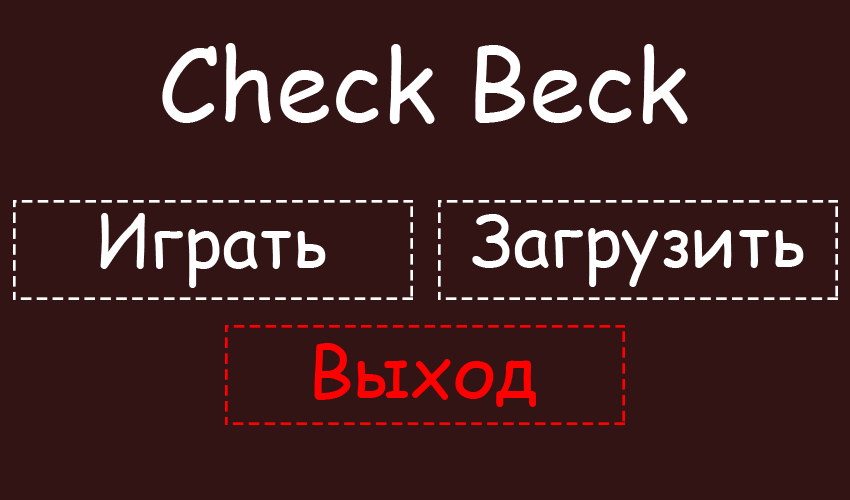
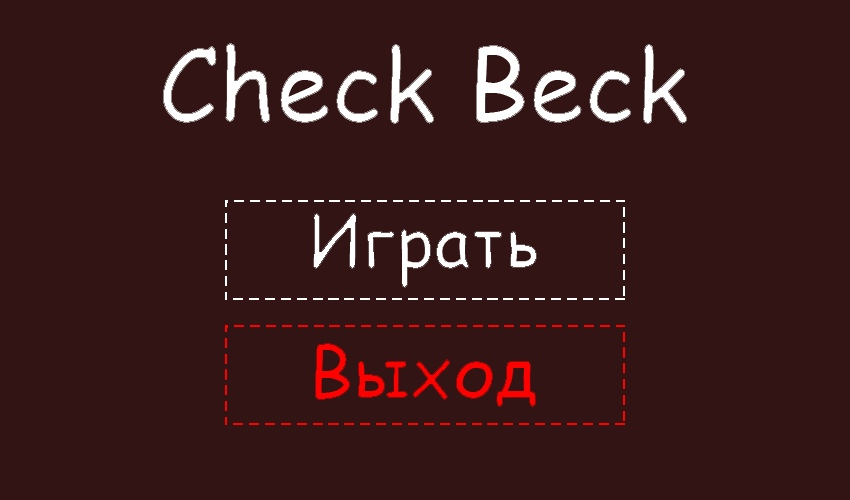
исправлены баги и доделано управление с геймпада

diff --git a/Check_Beck_game.py b/Check_Beck_game.py
@@ -3,9 +3,7 @@ import os
 import random
 import sys
 
-
 pygame.init()
-
 
 gamemap, player, level_x, level_y, chests, gun, knife, monsters, door, minimap = \
     None, None, None, None, None, None, None, None, None, None
@@ -29,6 +27,9 @@ tile_width = tile_height = 50
 HEALTH_BAR_SIZE = 178
 chests_found = 0
 HP = 50
+
+EXIT_BUTTON_COORDS = 425, 375
+START_BUTTON_COORDS = 425, 250
 
 screen = pygame.display.set_mode(size)
 amount_sprites = 47996
@@ -59,7 +60,8 @@ def show_progress(setMax, setVal):
     length_cur = int(length_pb / 100 * precent_cur)
     # Выводим прогресс бар
     sys.stderr.write(
-        '\rLoading: [' + '#' * length_cur + '.' * (length_pb - length_cur) + '] ' + str(precent_cur) + '%')
+        '\rLoading: [' + '#' * length_cur + '.' * (length_pb - length_cur) + '] ' +
+        str(precent_cur) + '%')
 
 
 def load_image(name, subfolder=None, colorkey=None):
@@ -91,7 +93,7 @@ def generate_level(level):
                 Tile("empty", x, y)
                 chests[(y, x)] = Chest((x, y))
                 monsters[(x - 1, y - 1)] = [random_monster(random.choices(LIST_OF_MONSTERS)[0],
-                                                          (x - 1, y - 1), (x, y))]
+                                                           (x - 1, y - 1), (x, y))]
             elif level[y][x] == '@':
                 Tile('empty', x, y)
                 player_coords = x, y
@@ -144,7 +146,7 @@ class Inventory:
         size_of_map = 194
         pygame.draw.rect(screen, pygame.color.Color('white'),
                          (self.x + ((self.width - int(self.width * 0.88)) // 2),
-                                                   height * 0.13, int(self.width * 0.88), height * 0.13), 1)
+                          height * 0.13, int(self.width * 0.88), height * 0.13), 1)
 
         pygame.draw.rect(screen, pygame.color.Color('white') if player.active_weapon == 2
         else pygame.color.Color('yellow'),
@@ -160,25 +162,25 @@ class Inventory:
 
         pygame.draw.rect(screen, pygame.color.Color('white'),
                          (self.x + ((self.width - int(self.width * 0.88)) // 2) - 1,
-                                                   height * 0.31 - 1, size_of_slots + 2, size_of_slots + 2), 1)
+                          height * 0.31 - 1, size_of_slots + 2, size_of_slots + 2), 1)
 
         pygame.draw.rect(screen, pygame.color.Color('white'),
                          (self.x + ((self.width - int(self.width * 0.88)) // 2)
-                                                   + int(self.width * 0.88) - size_of_slots - 1, height * 0.31 - 1,
-                                                   size_of_slots + 2, size_of_slots + 2), 1)
+                          + int(self.width * 0.88) - size_of_slots - 1, height * 0.31 - 1,
+                          size_of_slots + 2, size_of_slots + 2), 1)
 
         pygame.draw.rect(screen, pygame.color.Color('white'),
                          (self.x + ((self.width - int(self.width * 0.88)) // 2),
-                                                   height * 0.48, size_of_slots, size_of_slots), 1)
+                          height * 0.48, size_of_slots, size_of_slots), 1)
 
         pygame.draw.rect(screen, pygame.color.Color('white'),
                          (self.x + ((self.width - int(self.width * 0.88)) // 2)
-                                                   + int(self.width * 0.88) - size_of_slots,
-                                                   height * 0.48, size_of_slots, size_of_slots), 1)
+                          + int(self.width * 0.88) - size_of_slots,
+                          height * 0.48, size_of_slots, size_of_slots), 1)
 
         pygame.draw.rect(screen, pygame.color.Color('white'),
                          (self.x + ((self.width - size_of_map) // 2),
-                                                   height * 0.6, size_of_map, size_of_map), 1)
+                          height * 0.6, size_of_map, size_of_map), 1)
 
     def get_minimap_coords(self):
         return self.minimap_coords
@@ -349,7 +351,8 @@ class Player(pygame.sprite.Sprite):
         y = int(self.y)
         self.walk_animation += 1 if self.walk_animation == 1 else -1
         if (direction == 'up' and gamemap.map[y + (1 if self.y % 1 != 0 else 0) - 1][x] not in ('#', '*') and
-                gamemap.map[y + (1 if self.y % 1 != 0 else 0) - 1][x + (1 if self.x % 1 != 0 else 0)] not in ('#', '*')):
+                gamemap.map[y + (1 if self.y % 1 != 0 else 0) - 1][x + (1 if self.x % 1 != 0 else 0)]
+                not in ('#', '*')):
             self.rect = self.rect.move(0, -25)
             self.y -= 0.5
             self.image = load_image('Player_up.png', 'player')
@@ -376,7 +379,8 @@ class Player(pygame.sprite.Sprite):
                                     'player')
             self.coords = (self.x, self.y)
         elif (direction == 'left' and gamemap.map[y][x + (1 if self.x % 1 != 0 else 0) - 1] not in ('#', '*') and
-              gamemap.map[y + (1 if self.y % 1 != 0 else 0)][x + (1 if self.x % 1 != 0 else 0) - 1] not in ('#', '*')):
+              gamemap.map[y + (1 if self.y % 1 != 0 else 0)][x + (1 if self.x % 1 != 0 else 0) - 1]
+              not in ('#', '*')):
             self.rect = self.rect.move(-25, 0)
             self.x -= 0.5
             self.image = load_image('Player_left.png', 'player')
@@ -426,8 +430,8 @@ class Player(pygame.sprite.Sprite):
                 for monster in list(monster_list):
                     if ((monster.coords[0] - 0.5 <= self.coords[0]
                          + self.dir[self.direction][0] <= monster.coords[0] + 0.5
-                     and monster.coords[1] - 0.5 <= self.coords[1] +
-                     self.dir[self.direction][1] <= monster.coords[1] + 0.5)):
+                         and monster.coords[1] - 0.5 <= self.coords[1] +
+                         self.dir[self.direction][1] <= monster.coords[1] + 0.5)):
                         monster.damage('knife')
             hit_sound.play()
 
@@ -514,7 +518,7 @@ class Bat(Monsters):
             if self.i == 4:
                 self.direction = self.change_direction(self.direction)
                 self.i = 0
-            if (self.hp < 20) or (gamemap.map[self.CHEST_COORDS[1]][self.CHEST_COORDS[0]] == '?'):
+            if (self.hp < 35) or (gamemap.map[self.CHEST_COORDS[1]][self.CHEST_COORDS[0]] == '?'):
                 self.rage = True
             self.attack_timer = pygame.time.Clock()
         if self.rage:
@@ -528,7 +532,7 @@ class Bat(Monsters):
                 if self.coords != self.way[0]:
                     self.move()
                     if abs(self.x - player.x) <= self.attack_radius and \
-                        abs(self.y - player.y) <= self.attack_radius:
+                            abs(self.y - player.y) <= self.attack_radius:
                         self.attack()
                 else:
                     del self.way[0]
@@ -898,9 +902,11 @@ class Bullet(pygame.sprite.Sprite):
             lst = list(monsters.values())
             for monster_list in lst:
                 for monster in list(monster_list):
-                    if ((monster.coords[0] - 0.5 <= self.coords[0] + self.dir[self.direction][0] <= monster.coords[0] + 0.5
-                        and monster.coords[1] - 0.5 <= self.coords[1] +
-                        self.dir[self.direction][1] <= monster.coords[1] + 0.5)):
+                    if (
+                    (monster.coords[0] - 0.5 <= self.coords[0] +
+                     self.dir[self.direction][0] <= monster.coords[0] + 0.5
+                     and monster.coords[1] - 0.5 <= self.coords[1] +
+                     self.dir[self.direction][1] <= monster.coords[1] + 0.5)):
                         monster.damage('bullet')
                         self.kill()
         elif self.master.__class__.__name__ == 'Dragon':
@@ -1015,31 +1021,28 @@ class Menu(pygame.sprite.Sprite):
         self.rect = self.image.get_rect().move(0, 0)
 
     def get_click(self, coords):
-        if 13 <= coords[0] <= 413 and 200 <= coords[1] <= 300:
+        if 225 <= coords[0] <= 625 and 200 <= coords[1] <= 300:
             self.play()
-        if 438 <= coords[0] <= 828 and 200 <= coords[1] <= 300:
-            self.load()
         if 225 <= coords[0] <= 625 and 325 <= coords[1] <= 425:
             self.exit()
 
     def play(self):
         global game_start, gamemap, player, level_x, level_y, chests, gun, knife, monsters, door, \
             minimap
-        menu.image = load_image('loading.png')
-        menu_group.draw(screen)
-        pygame.display.flip()
+        if gamemap is None:
+            menu.image = load_image('loading.png')
+            menu_group.draw(screen)
+            pygame.display.flip()
 
-        gamemap, player, level_x, level_y, chests, gun, knife, monsters, door \
-            = generate_level(load_level('map.txt'))
-        minimap = MiniMap(len(gamemap.map), len(gamemap.map[0]), inventory.get_minimap_coords(), 2,
-                  (player.x, player.y))
+            gamemap, player, level_x, level_y, chests, gun, knife, monsters, door \
+                = generate_level(load_level('map.txt'))
+            minimap = MiniMap(len(gamemap.map), len(gamemap.map[0]), inventory.get_minimap_coords(), 2,
+                          (player.x, player.y))
+            self.image = load_image('menu.png')
         game_start = True
 
         pygame.mixer.music.load('data/music/background.mp3')
         pygame.mixer.music.play(-1)
-
-    def load(self):
-        pass
 
     def exit(self):
         global running
@@ -1078,34 +1081,59 @@ game_paused = False
 helpful_images = HelpfulImages()
 menu = Menu()
 game_start = False
-
+is_first = False
 
 while running:
     screen.fill(pygame.color.Color("black"))
     for event in pygame.event.get():
         if event.type == pygame.QUIT:
             running = False
-        if event.type == pygame.MOUSEBUTTONDOWN:
+        if event.type == pygame.MOUSEBUTTONDOWN and game_start:
             menu.get_click(event.pos)
+        if event.type == pygame.JOYBUTTONDOWN:
+            if event.button == 7 and not game_start:
+                menu.get_click(START_BUTTON_COORDS)
+                is_first = True
+            elif event.button == 6 and not game_start:
+                menu.get_click(EXIT_BUTTON_COORDS)
+                is_first = True
         if game_start:
             if player.hp > 0:
                 if event.type == pygame.JOYHATMOTION:
                     direction, move, flag = set_direction_hat(event)
                 if event.type == pygame.JOYAXISMOTION:
                     set_direction_rs(player, stick)
-                    if event.type == pygame.JOYBUTTONDOWN:
-                        if event.button in [7, 6]:
-                            running = False
-                    if event.button == 0 and gamemap.map[int(player.y)][int(player.x)] == '!':
+                if event.type == pygame.JOYBUTTONDOWN:
+                    if event.button == 6:
+                        if not is_first:
+                            game_start = False
+                            pygame.mixer.music.load('data/music/menu.mp3')
+                            pygame.mixer.music.play(-1)
+                        else:
+                            is_first = False
+                    elif event.button == 7:
+                        if not is_first:
+                            game_paused = True if not game_paused else False
+                            total_clock = pygame.time.Clock()
+                        else:
+                            is_first = False
+                    elif event.button == 0 and gamemap.map[int(player.y)][int(player.x)] == '!':
                         chest = chests[(int(player.y), int(player.x))]
                         chest.open_chest()
                         player.inventory[chest.loot_name.type] += chest.loot_num
                         gamemap.map[int(player.y)][int(player.x)] = '?'
                         del chests[(int(player.y), int(player.x))]
-                    if event.button == 2:
+                    elif event.button == 2:
                         player.hit()
-                    if event.button == 1:
+                    elif event.button == 1:
                         player.heal()
+                    elif event.button == 3 and player.inventory['Key'] != 0 and gamemap.map[int(player.y) + 1][int(player.x)] == '*':
+                        player.inventory['Key'] -= 1
+                        door.open()
+                    elif event.button == 4:
+                        player.active_weapon = 1
+                    elif event.button == 5:
+                        player.active_weapon = 2
                 if event.type == pygame.KEYDOWN:
                     if gamemap.map[int(player.y)][int(player.x)] == '!' and event.key == pygame.K_e:
                         chest = chests[(int(player.y), int(player.x))]
@@ -1136,7 +1164,6 @@ while running:
                         event.key in [pygame.K_w, pygame.K_s, pygame.K_a, pygame.K_d]:
                     direction, move = set_direction_wasd(event)
     if game_start:
-
         if stick is not None and flag:
             direction, move = set_direction_ls(stick)
 
@@ -1153,7 +1180,7 @@ while running:
             if player.direction != direction:
                 player.update_direction(direction)
             else:
-                 player.update(direction)
+                player.update(direction)
             player_timer = 0
 
         if bul_timer >= 30:
@@ -1203,6 +1230,10 @@ while running:
         if not game_paused:
             total_timer += timer
 
+        font = pygame.font.Font(None, 20)
+        help_text = font.render('F1 - инструкция по управлению', 1, pygame.color.Color('white'))
+        screen.blit(help_text, (10, 0))
+
     if not game_start:
         menu_group.draw(screen)
     pygame.display.flip()
@@ -1210,3 +1241,4 @@ while running:
 if stick is not None:
     stick.quit()
 pygame.quit()
+
